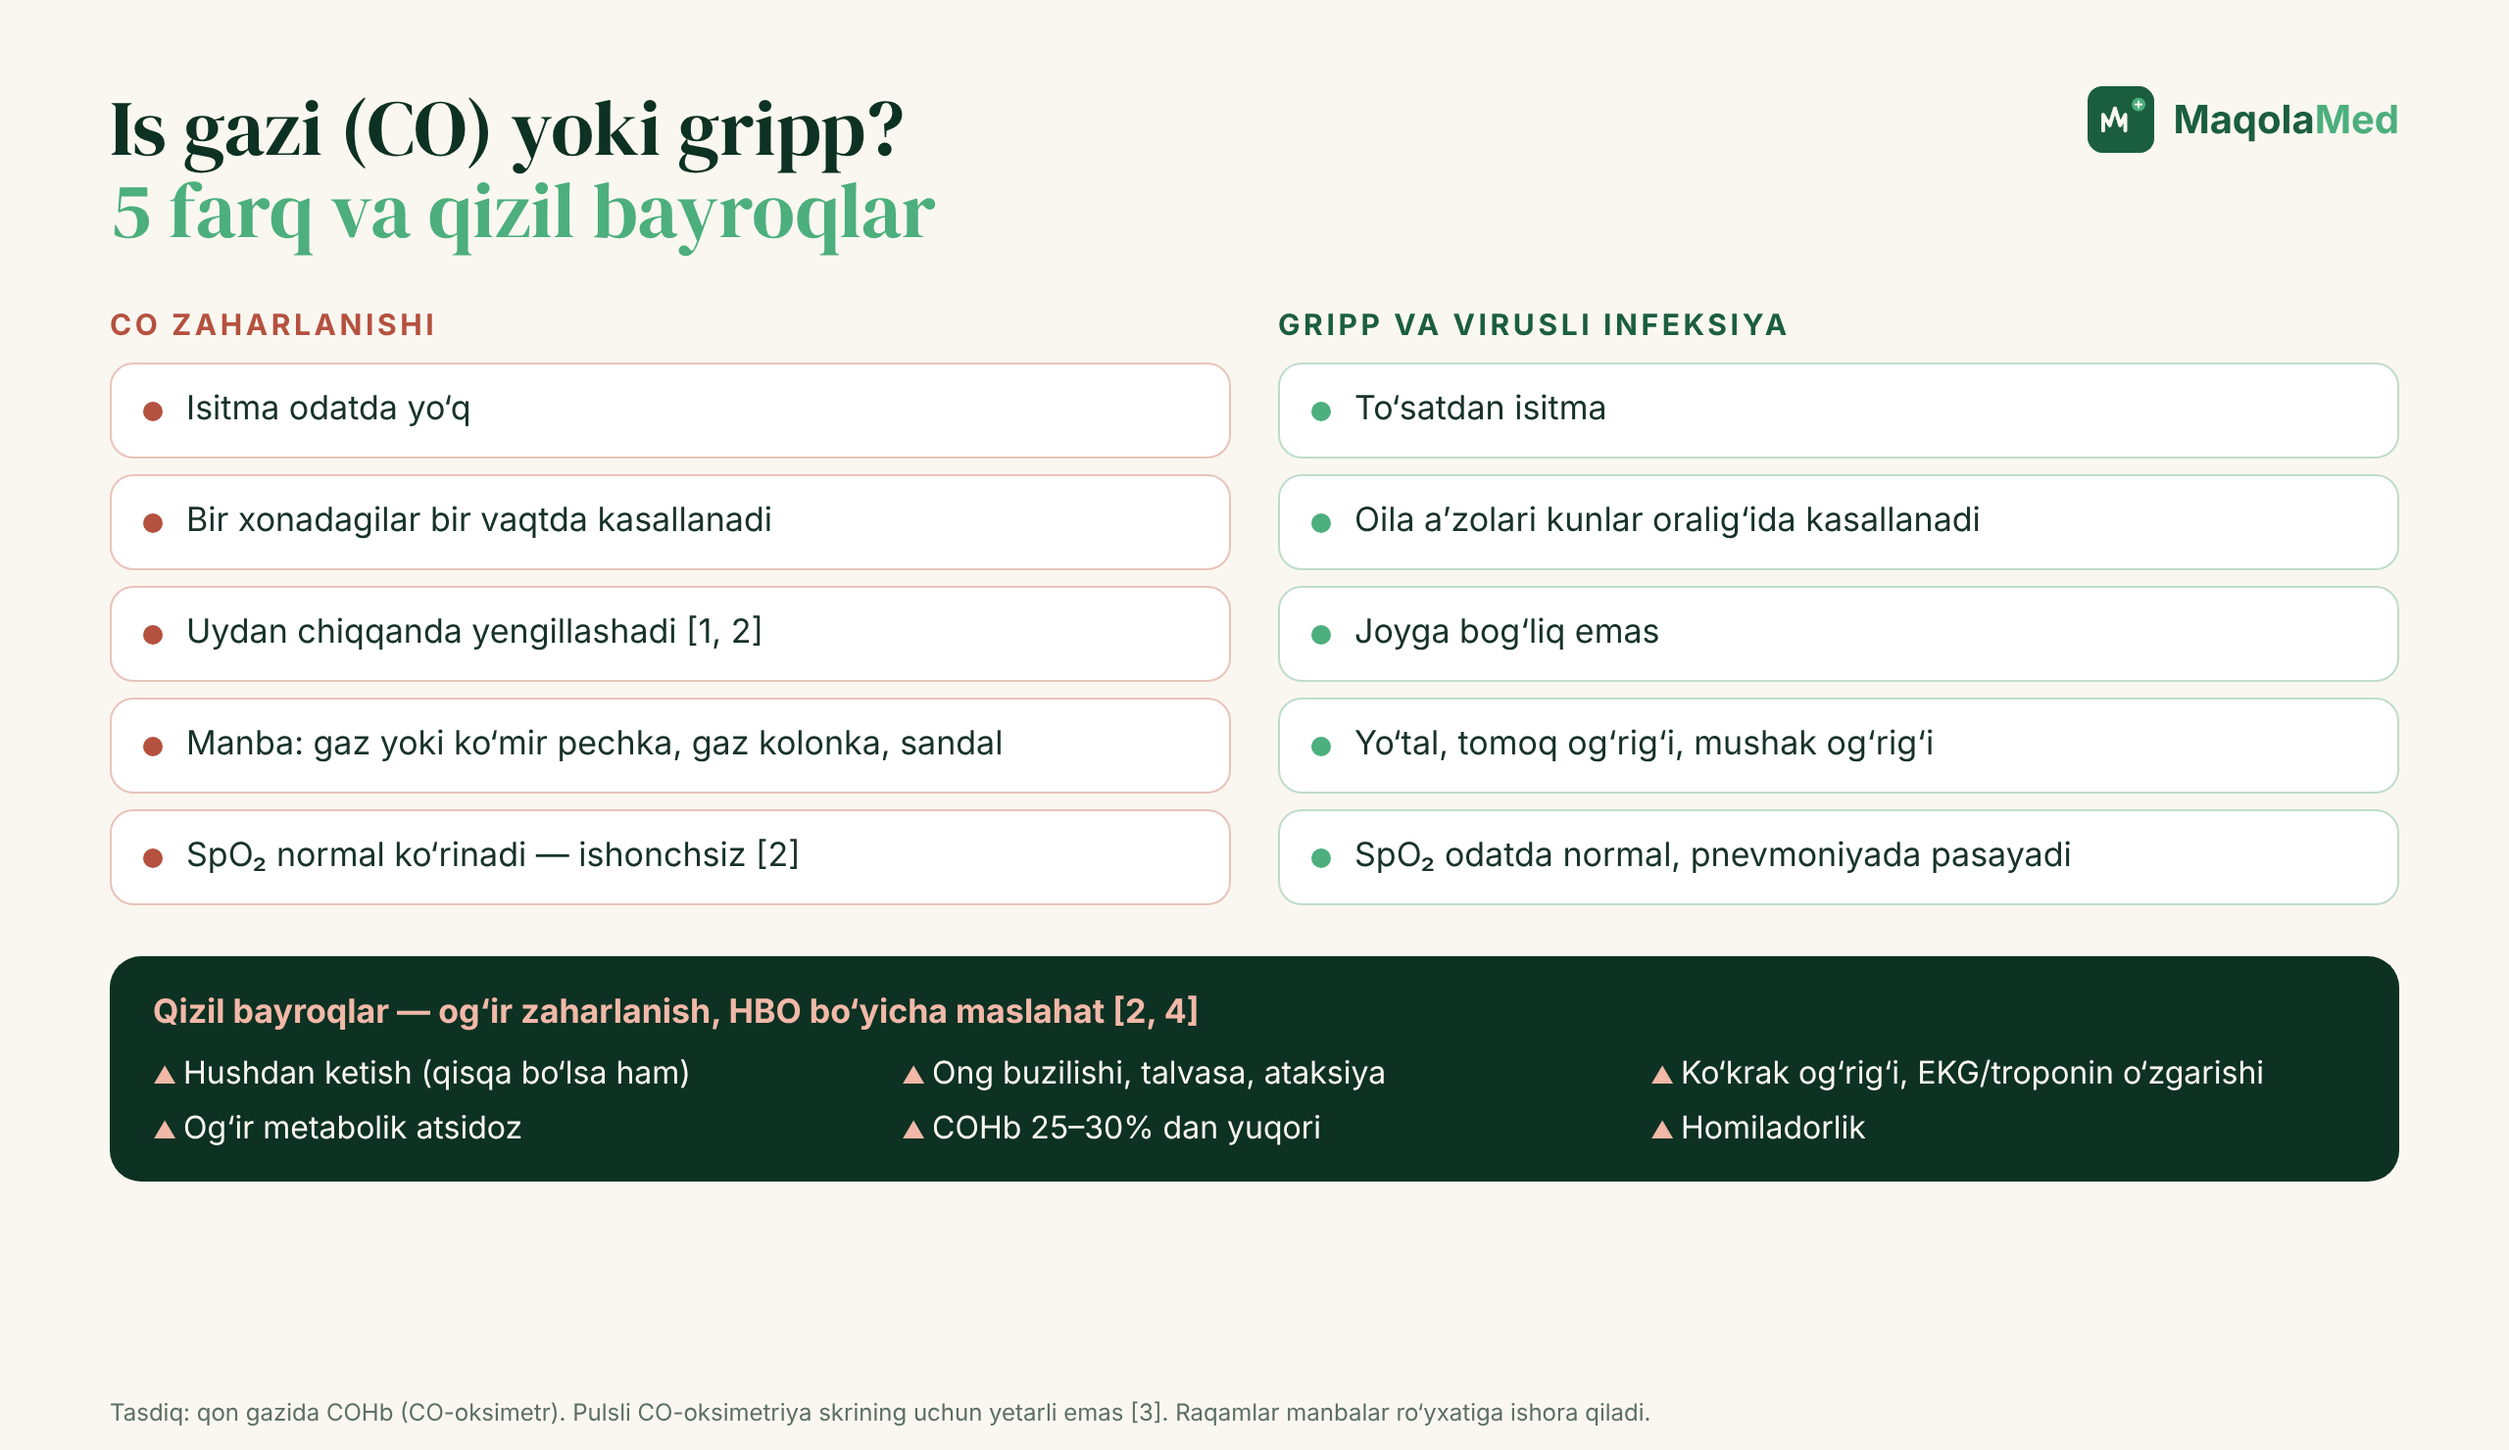
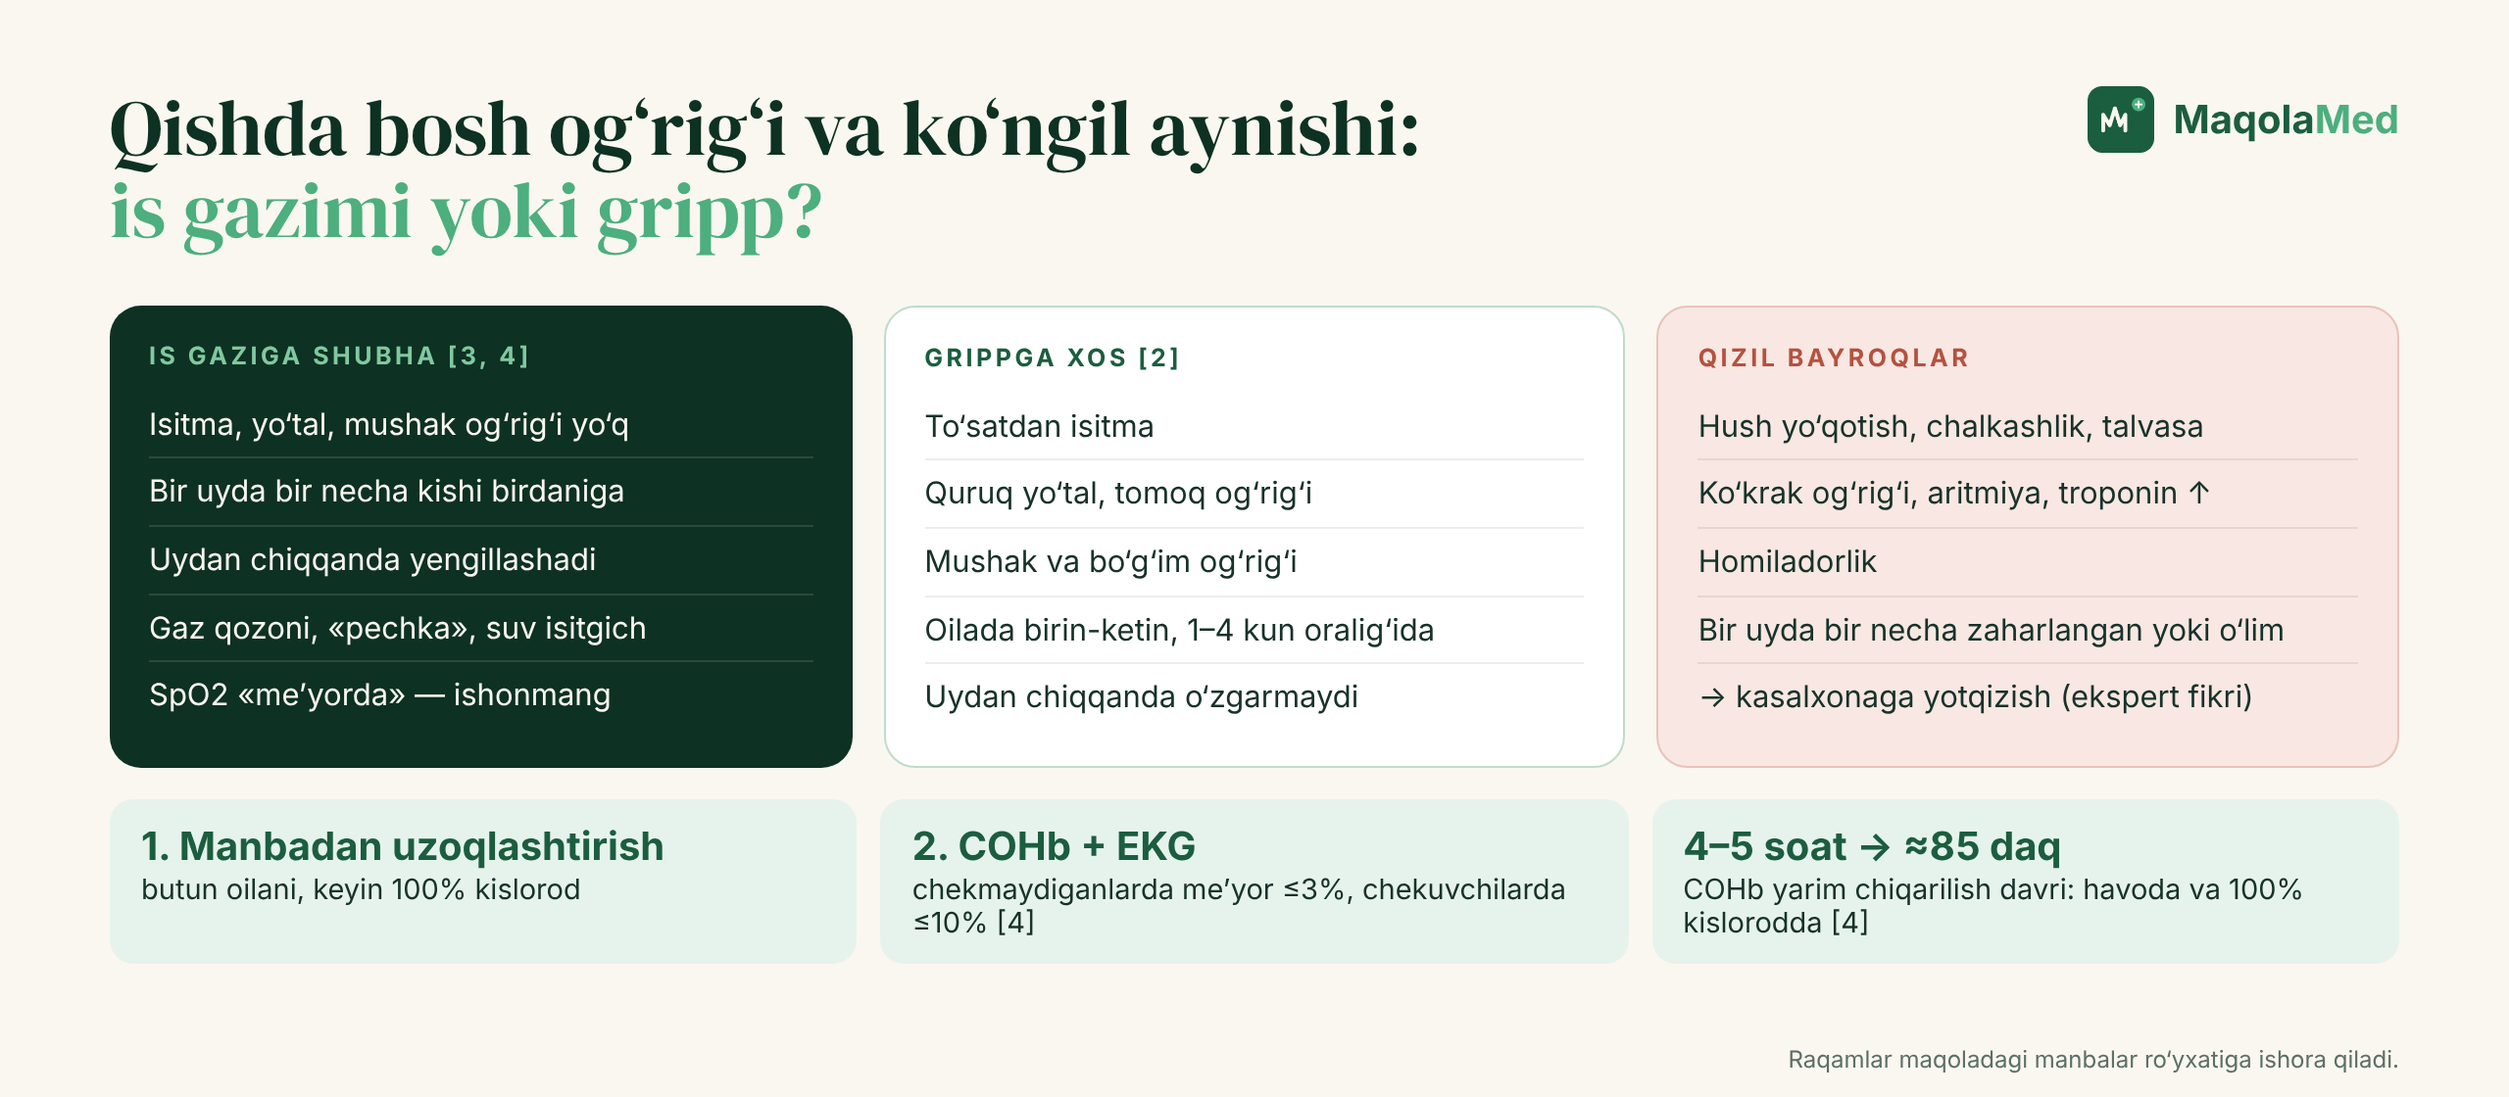
26-dekabr maqolasi qayta yozildi (v2, humanizer): is gazi yoki gripp — muqovalar, 1 rasm

diff --git a/_manba/2026-12-26/1-rasm.html b/_manba/2026-12-26/1-rasm.html
@@ -31,20 +31,21 @@ td.warn{background:var(--redbg)}
 .note b{color:var(--deep)}
 .src{position:absolute;right:56px;bottom:12px;font-size:12px;color:var(--muted)}
 .arrow{stroke:var(--emerald);stroke-width:2.2;fill:none}
-</style></head><body>
-<style>.cols{display:grid;grid-template-columns:1fr 1fr;gap:24px}.col h2{font-size:15px;letter-spacing:.12em;text-transform:uppercase;margin-bottom:10px}
-.li{display:flex;gap:12px;align-items:flex-start;background:#fff;border-radius:12px;padding:12px 16px;margin-bottom:8px;font-size:17px;line-height:1.35}
-.li i{flex:none;width:10px;height:10px;border-radius:50%;margin-top:7px}
-.co .li{border:1.5px solid #E8C3BA}.co .li i{background:var(--red)}.co h2{color:var(--red)}
-.fl .li{border:1.5px solid #BFDCCB}.fl .li i{background:var(--green)}.fl h2{color:var(--emerald)}
-.rf{margin-top:18px;background:var(--deep);color:var(--cream);border-radius:16px;padding:18px 22px}
-.rf b{font-size:17px;color:#F2B8A8}.rf ul{display:grid;grid-template-columns:1fr 1fr 1fr;gap:8px 22px;margin-top:10px;list-style:none;font-size:16px}
-.rf li:before{content:"▲ ";color:#F2B8A8;font-size:12px}</style>
-<style>:root{--H:740px}</style><div class="fig"><div class="top"><h1>Is gazi (CO) yoki gripp?<br><em>5 farq va qizil bayroqlar</em></h1><div class="brand"><img src="icon.png" alt=""><span>Maqola<b>Med</b></span></div></div>
-<div class="cols"><div class="col co"><h2>CO zaharlanishi</h2>
-<div class="li"><i></i>Isitma odatda yo‘q</div><div class="li"><i></i>Bir xonadagilar bir vaqtda kasallanadi</div><div class="li"><i></i>Uydan chiqqanda yengillashadi [1, 2]</div><div class="li"><i></i>Manba: gaz yoki ko‘mir pechka, gaz kolonka, sandal</div><div class="li"><i></i>SpO₂ normal ko‘rinadi — ishonchsiz [2]</div></div>
-<div class="col fl"><h2>Gripp va virusli infeksiya</h2>
-<div class="li"><i></i>To‘satdan isitma</div><div class="li"><i></i>Oila a’zolari kunlar oralig‘ida kasallanadi</div><div class="li"><i></i>Joyga bog‘liq emas</div><div class="li"><i></i>Yo‘tal, tomoq og‘rig‘i, mushak og‘rig‘i</div><div class="li"><i></i>SpO₂ odatda normal, pnevmoniyada pasayadi</div></div></div>
-<div class="rf"><b>Qizil bayroqlar — og‘ir zaharlanish, HBO bo‘yicha maslahat [2, 4]</b><ul>
-<li>Hushdan ketish (qisqa bo‘lsa ham)</li><li>Ong buzilishi, talvasa, ataksiya</li><li>Ko‘krak og‘rig‘i, EKG/troponin o‘zgarishi</li><li>Og‘ir metabolik atsidoz</li><li>COHb 25–30% dan yuqori</li><li>Homiladorlik</li></ul></div>
-<div class="src" style="left:56px;right:auto">Tasdiq: qon gazida COHb (CO-oksimetr). Pulsli CO-oksimetriya skrining uchun yetarli emas [3]. Raqamlar manbalar ro‘yxatiga ishora qiladi.</div></div></body></html>
+</style></head><body><style>:root{--H:560px}
+.cols{display:grid;grid-template-columns:repeat(3,1fr);gap:16px}
+.col{border-radius:16px;padding:18px 20px;font-size:15.5px;line-height:1.4}
+.col h2{font-size:12.5px;letter-spacing:.14em;text-transform:uppercase;margin-bottom:8px}
+.col ul{list-style:none}.col li{padding:6px 0;border-bottom:1px solid rgba(0,0,0,.07)}.col li:last-child{border-bottom:0}
+.c1{background:var(--deep);color:var(--cream)}.c1 h2{color:var(--mint)}.c1 li{border-color:rgba(255,255,255,.12)}
+.c2{background:#fff;border:1.5px solid #BFDCCB}.c2 h2{color:var(--emerald)}
+.c3{background:var(--redbg);border:1.5px solid #E8C3BA}.c3 h2{color:var(--red)}
+.kbar{margin-top:16px;display:grid;grid-template-columns:repeat(3,1fr);gap:12px}
+.k{border-radius:12px;padding:12px 16px;font-size:14.5px;background:#E6F3EC}.k b{display:block;font-size:20px;margin-bottom:2px;color:var(--emerald)}
+</style>
+<div class="fig"><div class="top"><h1>Qishda bosh og‘rig‘i va ko‘ngil aynishi:<br><em>is gazimi yoki gripp?</em></h1><div class="brand"><img src="icon.png" alt=""><span>Maqola<b>Med</b></span></div></div>
+<div class="cols">
+<div class="col c1"><h2>Is gaziga shubha [3, 4]</h2><ul><li>Isitma, yo‘tal, mushak og‘rig‘i yo‘q</li><li>Bir uyda bir necha kishi birdaniga</li><li>Uydan chiqqanda yengillashadi</li><li>Gaz qozoni, «pechka», suv isitgich</li><li>SpO2 «me’yorda» — ishonmang</li></ul></div>
+<div class="col c2"><h2>Grippga xos [2]</h2><ul><li>To‘satdan isitma</li><li>Quruq yo‘tal, tomoq og‘rig‘i</li><li>Mushak va bo‘g‘im og‘rig‘i</li><li>Oilada birin-ketin, 1–4 kun oralig‘ida</li><li>Uydan chiqqanda o‘zgarmaydi</li></ul></div>
+<div class="col c3"><h2>Qizil bayroqlar</h2><ul><li>Hush yo‘qotish, chalkashlik, talvasa</li><li>Ko‘krak og‘rig‘i, aritmiya, troponin ↑</li><li>Homiladorlik</li><li>Bir uyda bir necha zaharlangan yoki o‘lim</li><li>→ kasalxonaga yotqizish (ekspert fikri)</li></ul></div></div>
+<div class="kbar"><div class="k"><b>1. Manbadan uzoqlashtirish</b>butun oilani, keyin 100% kislorod</div><div class="k"><b>2. COHb + EKG</b>chekmaydiganlarda me’yor ≤3%, chekuvchilarda ≤10% [4]</div><div class="k"><b>4–5 soat → ≈85 daq</b>COHb yarim chiqarilish davri: havoda va 100% kislorodda [4]</div></div>
+<div class="src">Raqamlar maqoladagi manbalar ro‘yxatiga ishora qiladi.</div></div></body></html>

diff --git a/_manba/2026-12-26/muqova-16x9.html b/_manba/2026-12-26/muqova-16x9.html
@@ -54,6 +54,8 @@ h1 em{font-style:normal;color:var(--mint)}
 .ask{margin-top:16px;display:flex;align-items:center;justify-content:space-between;padding:13px 16px;border-radius:12px;background:var(--green);color:#0D3122;font-weight:700;font-size:17px}
 .ask svg{width:22px;height:22px;stroke:#0D3122;fill:none;stroke-width:2.2;stroke-linecap:round;stroke-linejoin:round}
 
+
+h1{font-size:60px}
 </style>
 </head>
 <body><div class="cover"><div class="grid"></div>
@@ -61,9 +63,9 @@ h1 em{font-style:normal;color:var(--mint)}
 <div class="left"><div class="brand"><img src="logo_dark_bg.png" alt="MaqolaMed"></div>
 <div class="tag" style="margin-top:22px"><span>ILM</span><i></i><span>AMALIYOT</span><i></i><span>ODAM UCHUN</span><span class="line"></span></div>
 <div class="kicker"><span></span>Farqlash · Shoshilinch tibbiyot</div>
-<h1>Butun oilada<br>bosh og‘rig‘i:<br><em>gripp yoki is gazi?</em></h1>
-<div class="sub">Isitmasiz «gripp», normal SpO₂ va gaz pechka.</div></div>
-<div class="points"><div class="pt"><div class="ic"><svg viewBox="0 0 24 24"><circle cx="12" cy="12" r="9"/><path d="M9.5 9.5a2.5 2.5 0 1 1 3.5 2.3c-.7.3-1 .8-1 1.5v.7"/><path d="M12 17v.5"/></svg></div><p>Qaysi 2 savol CO ni ochadi?</p></div><div class="pt"><div class="ic"><svg viewBox="0 0 24 24"><path d="M12 3l9.5 17h-19z"/><path d="M12 10v4.5"/><path d="M12 17.5v.5"/></svg></div><p>Normal SpO₂ nega aldaydi?</p></div><div class="pt"><div class="ic"><svg viewBox="0 0 24 24"><path d="M9 3h6"/><path d="M10 3v12.5a2 2 0 0 0 4 0V3"/><path d="M10 10h4"/><path d="M5 21h14"/></svg></div><p>SpCO ga ishonsa bo‘ladimi?</p></div><div class="pt"><div class="ic"><svg viewBox="0 0 24 24"><path d="M12 3l8 3v6c0 4.5-3.5 8-8 9-4.5-1-8-4.5-8-9V6z"/><path d="M9 12l2 2 4-4"/></svg></div><p>HBO kimga kerak?</p></div></div>
-<div class="card"><div class="ch"><span class="lbl">FARQLASH</span><span class="pill">CO · Gripp</span></div>
-<h3>Is gazi yoki gripp?<small>Qabulda 4 ta farq</small></h3><div class="rows"><div class="row"><span>Isitma</span><span class="ok">yo‘q · bor</span></div><div class="row"><span>Kim kasal</span><span class="ok">bir xona · kunlab</span></div><div class="row"><span>Uydan chiqqanda</span><span class="ok">yengillashadi</span></div><div class="row"><span>SpO₂</span><span class="ok">normal, aldaydi</span></div></div><div class="quote">«Mahallada gripp yurgan, hammamiz shamollab qoldik».</div><div class="ask">Siz nima qilardingiz?<svg viewBox="0 0 24 24"><path d="M5 12h14"/><path d="M13 6l6 6-6 6"/></svg></div></div>
+<h1>Qishki bosh og‘rig‘i:<br>gripp deb yozishdan<br><em>oldin qozonni so‘rang</em></h1>
+<div class="sub">Is gazi zaharlanishi grippni qanday niqoblaydi.</div></div>
+<div class="points"><div class="pt"><div class="ic"><svg viewBox="0 0 24 24"><circle cx="12" cy="12" r="9"/><path d="M9.5 9.5a2.5 2.5 0 1 1 3.5 2.3c-.7.3-1 .9-1 1.7"/><path d="M12 17v.5"/></svg></div><p>Qaysi belgilar is gazini ko‘rsatadi?</p></div><div class="pt"><div class="ic"><svg viewBox="0 0 24 24"><path d="M12 3l9.5 17h-19z"/><path d="M12 10v4"/><path d="M12 17v.5"/></svg></div><p>Nega pulsoksimetr aldaydi?</p></div><div class="pt"><div class="ic"><svg viewBox="0 0 24 24"><path d="M9 3h6"/><path d="M10 3v6l-5 9a2 2 0 0 0 2 3h10a2 2 0 0 0 2-3l-5-9V3"/><path d="M7.5 15h9"/></svg></div><p>COHb va EKG qachon kerak?</p></div><div class="pt"><div class="ic"><svg viewBox="0 0 24 24"><path d="M4 11l8-7 8 7"/><path d="M6 10v10h12V10"/><path d="M10 20v-5h4v5"/></svg></div><p>Kislorod va manba: nima qilamiz?</p></div></div>
+<div class="card"><div class="ch"><span class="lbl">FARQLASH</span><span class="pill">CO yoki gripp</span></div>
+<h3>Is gazi va gripp<small>ACEP 2017 · JSST 2025</small></h3><div class="rows"><div class="row"><span>Isitma, yo‘tal</span><span class="">gripp</span></div><div class="row"><span>Bir uyda birdaniga</span><span class="ok">is gazi</span></div><div class="row"><span>Uydan chiqqanda yengil</span><span class="ok">is gazi</span></div><div class="row"><span>SpO2 (pulsoksimetr)</span><span class="">ishonchsiz</span></div><div class="row"><span>COHb (chekmaydigan)</span><span class="ok">≤3% me’yor</span></div><div class="row"><span>Grippsimon bemorlarda COHb ≥10%</span><span class="">23,6%</span></div></div><div class="quote">«Gripp, paratsetamol iching»</div><div class="ask">Siz nima qilardingiz?<svg viewBox="0 0 24 24"><path d="M5 12h14"/><path d="M13 6l6 6-6 6"/></svg></div></div>
 </div></body></html>

diff --git a/_manba/2026-12-26/muqova-instagram-4x5.html b/_manba/2026-12-26/muqova-instagram-4x5.html
@@ -69,6 +69,10 @@ h1{font-size:96px;margin-top:18px}
 .pt{width:auto;flex:1}
 .pt p{font-size:17px}
 
+
+
+
+h1{font-size:84px}
 </style>
 </head>
 <body><div class="cover"><div class="grid"></div>
@@ -76,9 +80,9 @@ h1{font-size:96px;margin-top:18px}
 <div class="left"><div class="brand"><img src="logo_dark_bg.png" alt="MaqolaMed"></div>
 <div class="tag" style="margin-top:22px"><span>ILM</span><i></i><span>AMALIYOT</span><i></i><span>ODAM UCHUN</span><span class="line"></span></div>
 <div class="kicker"><span></span>Farqlash · Shoshilinch tibbiyot</div>
-<h1>Butun oilada<br>bosh og‘rig‘i:<br><em>gripp yoki is gazi?</em></h1>
-<div class="sub">Isitmasiz «gripp», normal SpO₂ va gaz pechka.</div></div>
-<div class="points"><div class="pt"><div class="ic"><svg viewBox="0 0 24 24"><circle cx="12" cy="12" r="9"/><path d="M9.5 9.5a2.5 2.5 0 1 1 3.5 2.3c-.7.3-1 .8-1 1.5v.7"/><path d="M12 17v.5"/></svg></div><p>Qaysi 2 savol CO ni ochadi?</p></div><div class="pt"><div class="ic"><svg viewBox="0 0 24 24"><path d="M12 3l9.5 17h-19z"/><path d="M12 10v4.5"/><path d="M12 17.5v.5"/></svg></div><p>Normal SpO₂ nega aldaydi?</p></div><div class="pt"><div class="ic"><svg viewBox="0 0 24 24"><path d="M9 3h6"/><path d="M10 3v12.5a2 2 0 0 0 4 0V3"/><path d="M10 10h4"/><path d="M5 21h14"/></svg></div><p>SpCO ga ishonsa bo‘ladimi?</p></div><div class="pt"><div class="ic"><svg viewBox="0 0 24 24"><path d="M12 3l8 3v6c0 4.5-3.5 8-8 9-4.5-1-8-4.5-8-9V6z"/><path d="M9 12l2 2 4-4"/></svg></div><p>HBO kimga kerak?</p></div></div>
-<div class="card"><div class="ch"><span class="lbl">FARQLASH</span><span class="pill">CO · Gripp</span></div>
-<h3>Is gazi yoki gripp?<small>Qabulda 4 ta farq</small></h3><div class="rows"><div class="row"><span>Isitma</span><span class="ok">yo‘q · bor</span></div><div class="row"><span>Kim kasal</span><span class="ok">bir xona · kunlab</span></div><div class="row"><span>Uydan chiqqanda</span><span class="ok">yengillashadi</span></div><div class="row"><span>SpO₂</span><span class="ok">normal, aldaydi</span></div></div><div class="quote">«Mahallada gripp yurgan, hammamiz shamollab qoldik».</div><div class="ask">Siz nima qilardingiz?<svg viewBox="0 0 24 24"><path d="M5 12h14"/><path d="M13 6l6 6-6 6"/></svg></div></div>
+<h1>Qishki bosh og‘rig‘i:<br>gripp deb yozishdan<br><em>oldin qozonni so‘rang</em></h1>
+<div class="sub">Is gazi zaharlanishi grippni qanday niqoblaydi.</div></div>
+<div class="points"><div class="pt"><div class="ic"><svg viewBox="0 0 24 24"><circle cx="12" cy="12" r="9"/><path d="M9.5 9.5a2.5 2.5 0 1 1 3.5 2.3c-.7.3-1 .9-1 1.7"/><path d="M12 17v.5"/></svg></div><p>Qaysi belgilar is gazini ko‘rsatadi?</p></div><div class="pt"><div class="ic"><svg viewBox="0 0 24 24"><path d="M12 3l9.5 17h-19z"/><path d="M12 10v4"/><path d="M12 17v.5"/></svg></div><p>Nega pulsoksimetr aldaydi?</p></div><div class="pt"><div class="ic"><svg viewBox="0 0 24 24"><path d="M9 3h6"/><path d="M10 3v6l-5 9a2 2 0 0 0 2 3h10a2 2 0 0 0 2-3l-5-9V3"/><path d="M7.5 15h9"/></svg></div><p>COHb va EKG qachon kerak?</p></div><div class="pt"><div class="ic"><svg viewBox="0 0 24 24"><path d="M4 11l8-7 8 7"/><path d="M6 10v10h12V10"/><path d="M10 20v-5h4v5"/></svg></div><p>Kislorod va manba: nima qilamiz?</p></div></div>
+<div class="card"><div class="ch"><span class="lbl">FARQLASH</span><span class="pill">CO yoki gripp</span></div>
+<h3>Is gazi va gripp<small>ACEP 2017 · JSST 2025</small></h3><div class="rows"><div class="row"><span>Isitma, yo‘tal</span><span class="">gripp</span></div><div class="row"><span>Bir uyda birdaniga</span><span class="ok">is gazi</span></div><div class="row"><span>Uydan chiqqanda yengil</span><span class="ok">is gazi</span></div><div class="row"><span>SpO2 (pulsoksimetr)</span><span class="">ishonchsiz</span></div><div class="row"><span>COHb (chekmaydigan)</span><span class="ok">≤3% me’yor</span></div><div class="row"><span>Grippsimon bemorlarda COHb ≥10%</span><span class="">23,6%</span></div></div><div class="quote">«Gripp, paratsetamol iching»</div><div class="ask">Siz nima qilardingiz?<svg viewBox="0 0 24 24"><path d="M5 12h14"/><path d="M13 6l6 6-6 6"/></svg></div></div>
 </div></body></html>
